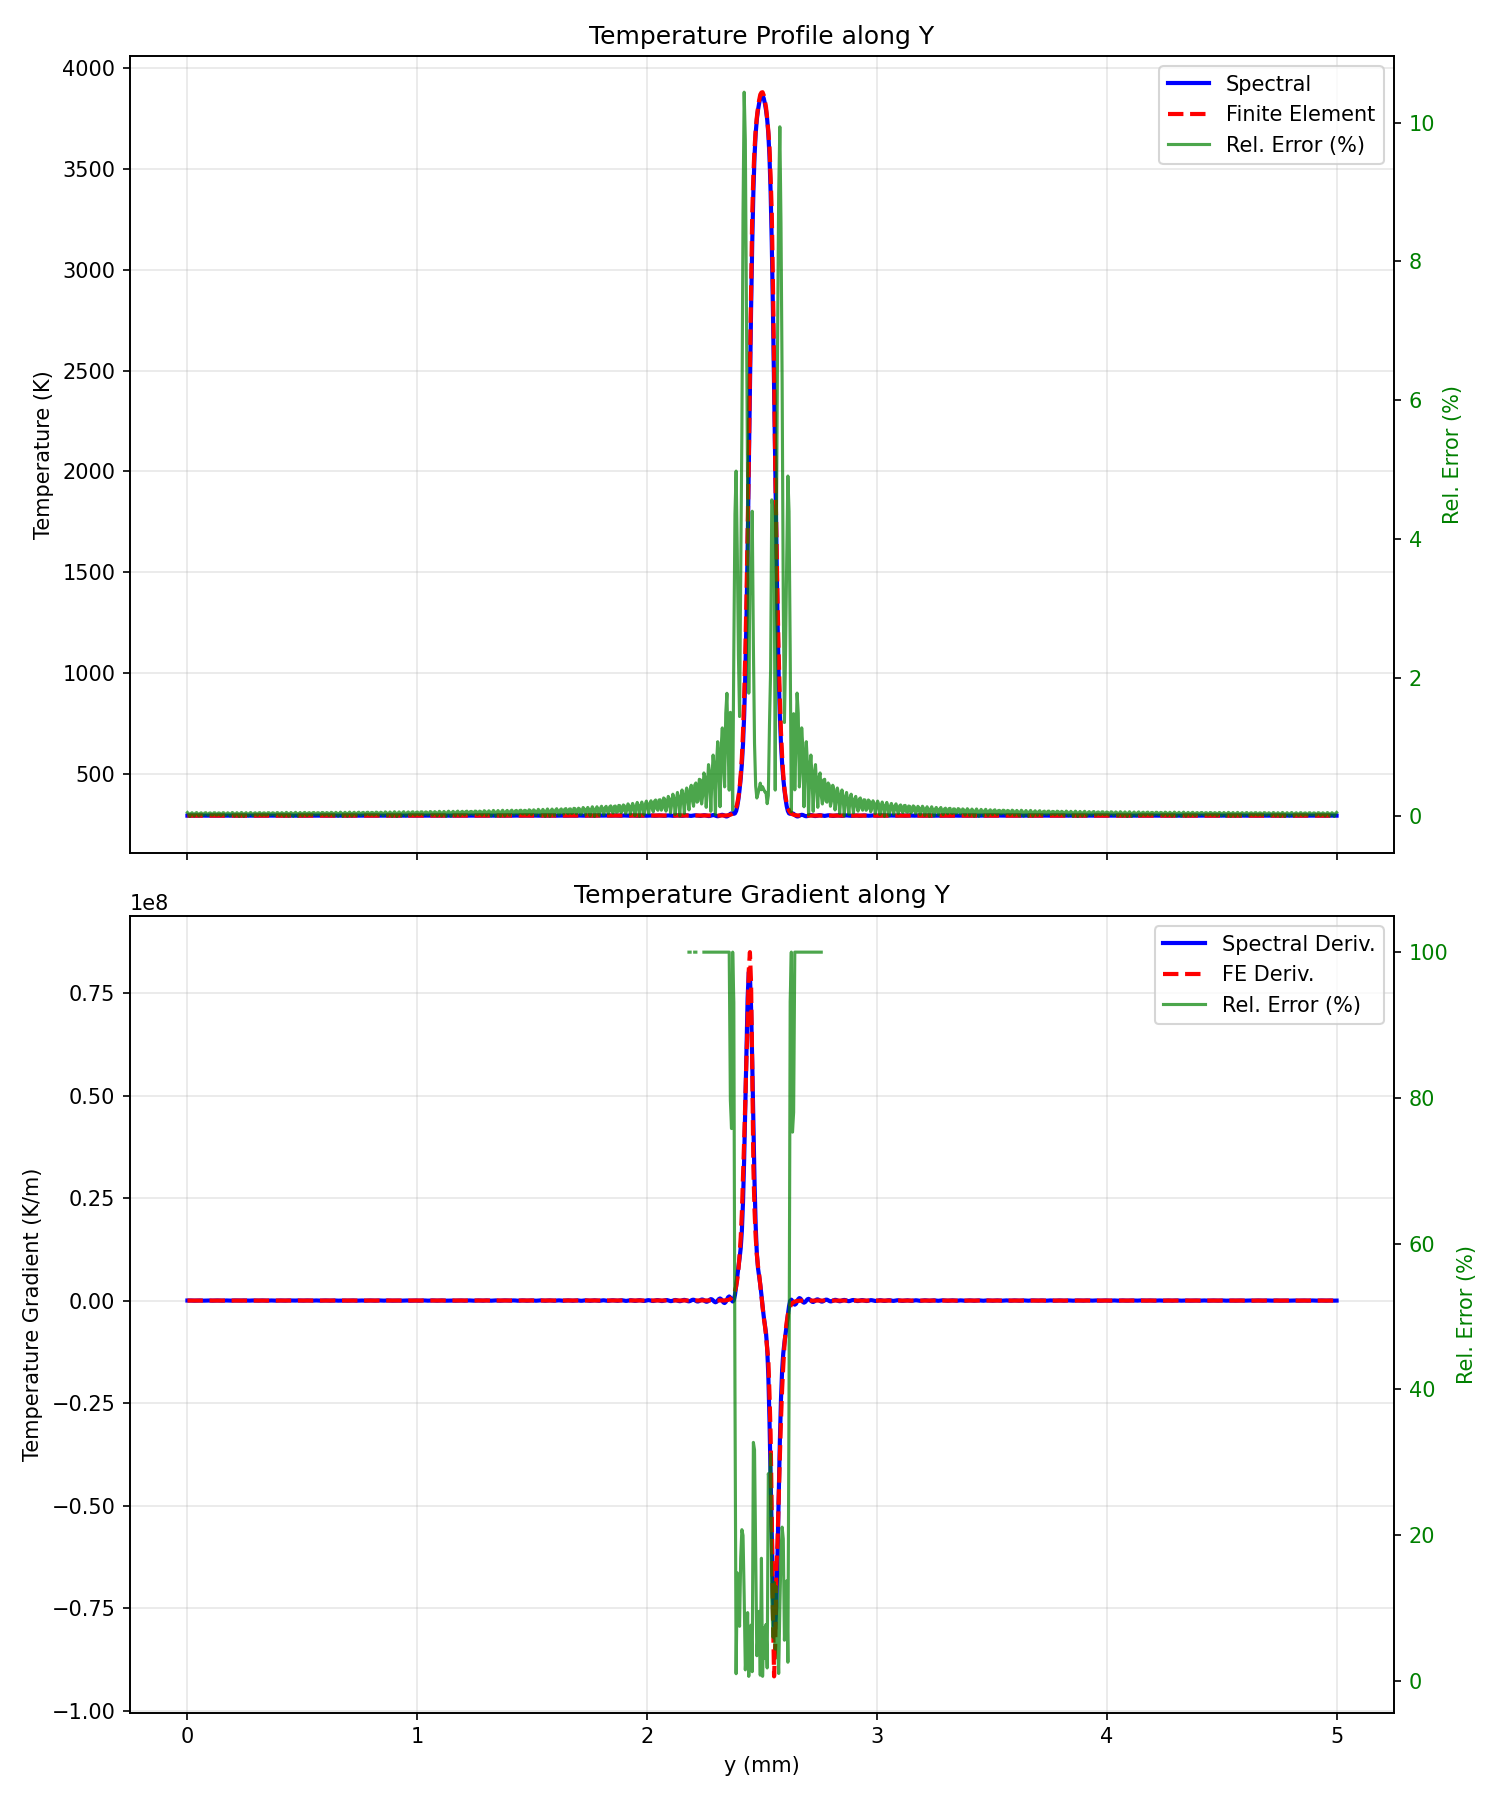
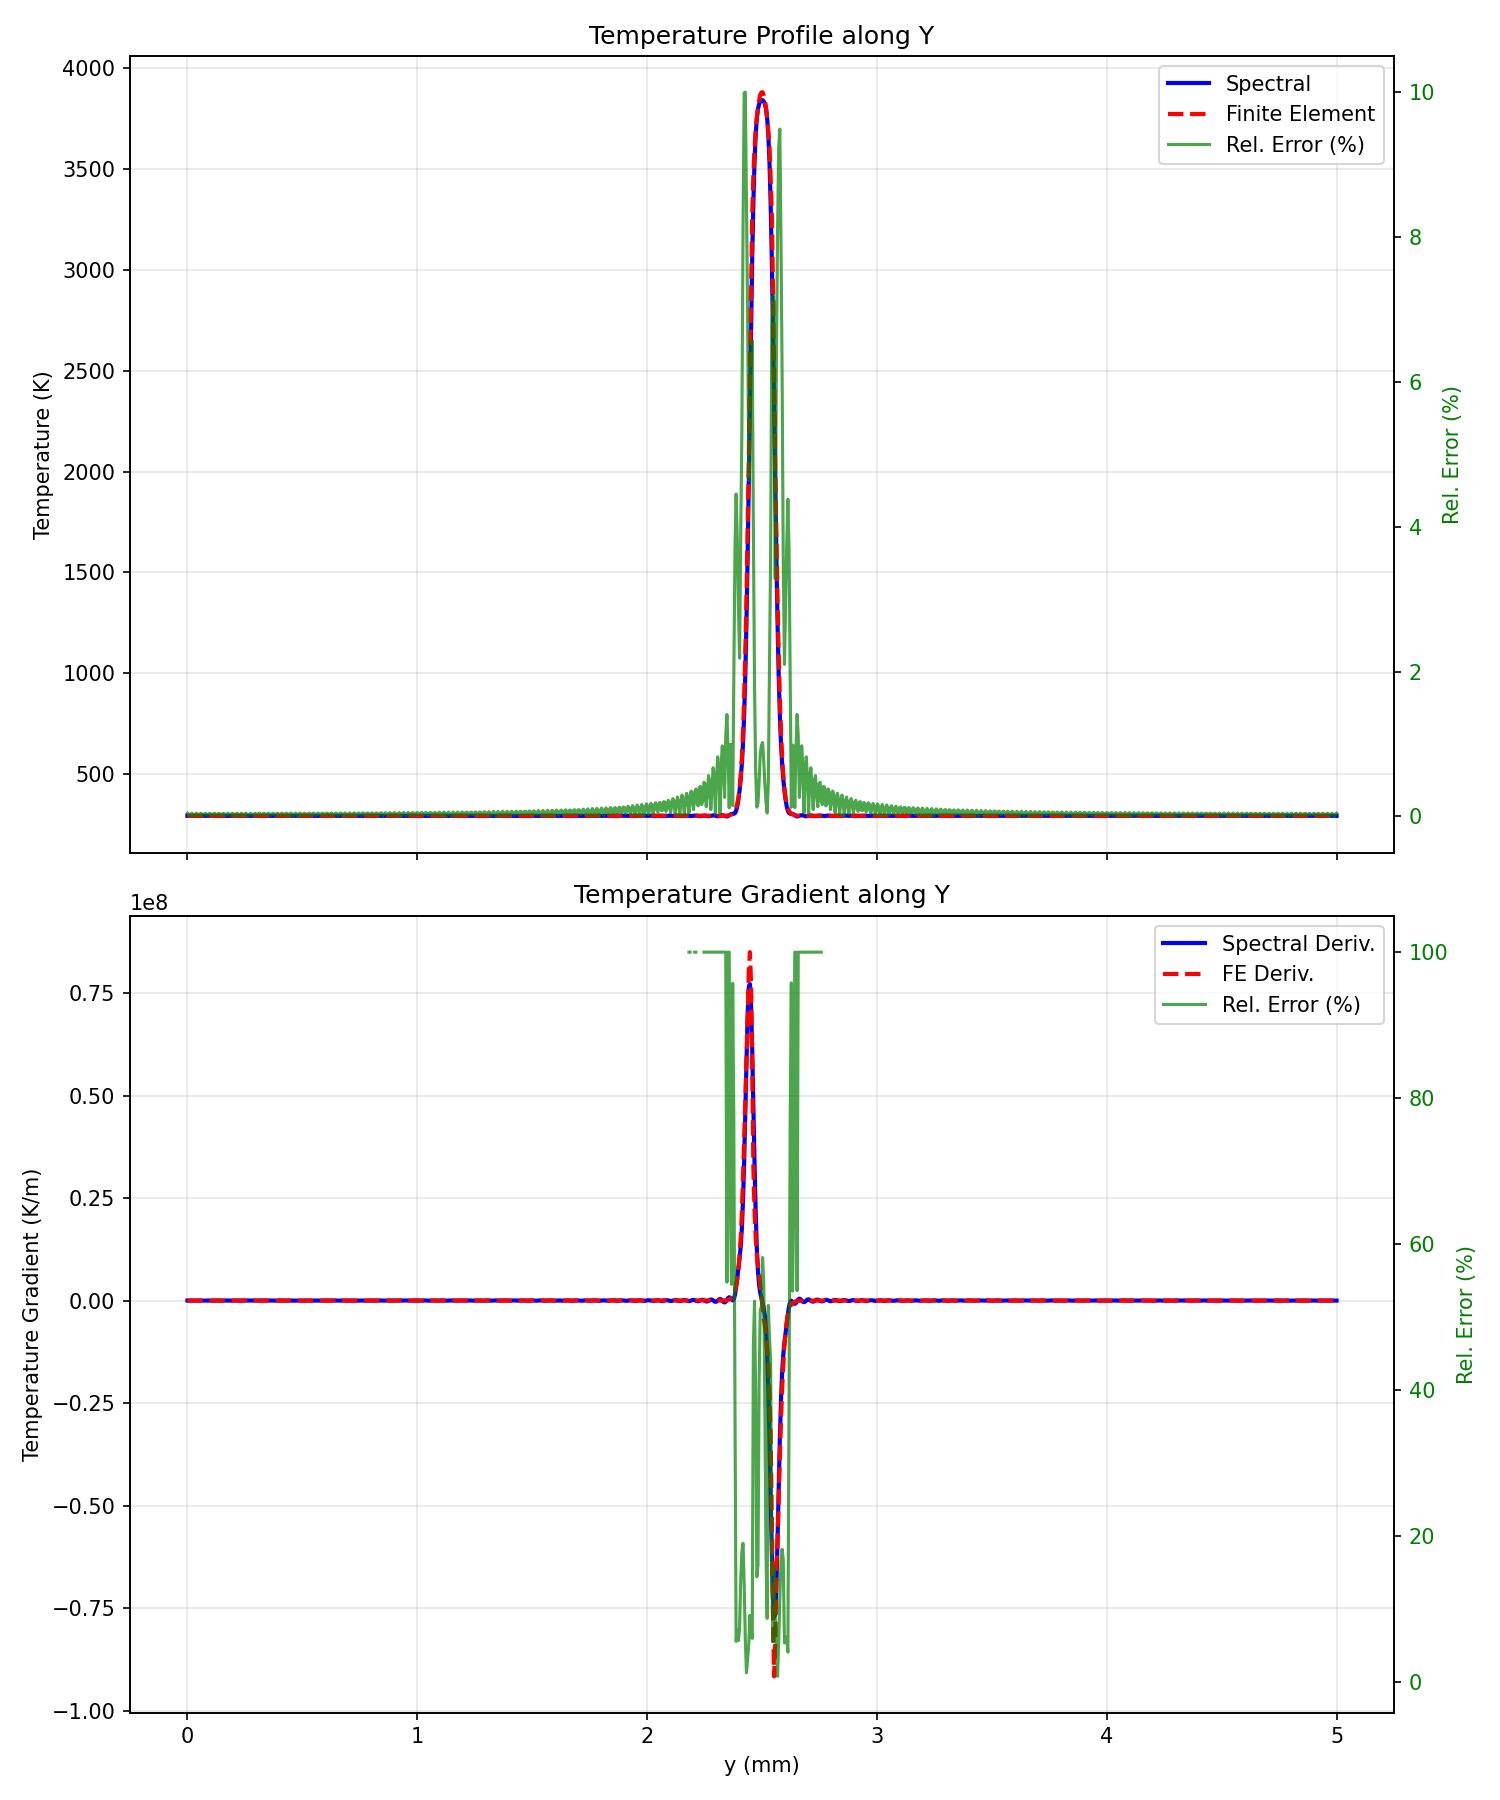
test gpu

Changed region(s): [[0.46, 0.5289, 0.552, 0.9333], [0.4293, 0.0933, 0.6133, 0.4667]]

diff --git a/implementations/physics/spectral_gpu_kernels.py b/implementations/physics/spectral_gpu_kernels.py
@@ -12,16 +12,58 @@ import utils.spectral_helpers as spec_hp  # Assuming this contains only scalar l
 # ======================================
 
 @cuda.jit
-def update_modes_etd1_kernel(aK, KK_by_Cp, B_scaled, a_temp_out):
+def update_modes_etd1_kernel(aK, B_scaled, a_temp_out, K, kx2, ky2, kz2, alpha, dt, rho_Cp):
     """
     Update spectral coefficients for ETD1 scheme.
+    Computes KK on the fly to save memory.
     Grid: 3D (nz, ny, nx)
     """
     z, y, x = cuda.grid(3)
     nz, ny, nx = aK.shape
 
     if z < nz and y < ny and x < nx:
-        a_temp_out[z, y, x] = aK[z, y, x] + KK_by_Cp[z, y, x] * B_scaled[y, x]
+        # Compute KK inline
+        # KK = (K - 1) / (-alpha * k^2 * rho * Cp)
+        # alpha * k^2
+        k2 = kx2[x] + ky2[y] + kz2[z]
+        denom = alpha * k2
+        
+        if denom == 0.0:
+            KK_val = dt / rho_Cp
+        else:
+            KK_val = (K[z, y, x] - 1.0) / (-denom * rho_Cp)
+            
+        a_temp_out[z, y, x] = aK[z, y, x] + KK_val * B_scaled[y, x]
+
+@cuda.jit
+def add_projected_source_kernel(a_temp, temp2, Bx, K, kx2, ky2, kz2, alpha, dt, rho_Cp):
+    """
+    Project partial source term (temp2) onto x-modes and add to a_temp weighted by KK.
+    temp2: (nx_box, nz, ny)
+    Bx: (nx, nx_box)
+    a_temp: (nz, ny, nx)
+    """
+    z, y, x = cuda.grid(3)
+    nz, ny, nx = a_temp.shape
+    nx_box = temp2.shape[0]
+    
+    if z < nz and y < ny and x < nx:
+        # 1. Finish Projection (Dot product over box x-modes)
+        Q_val = 0.0
+        for i in range(nx_box):
+            Q_val += temp2[i, z, y] * Bx[x, i] # Bx is (nx, nx_box)
+            
+        # 2. Compute KK inline
+        k2 = kx2[x] + ky2[y] + kz2[z]
+        denom = alpha * k2
+        
+        if denom == 0.0:
+            KK_val = dt / rho_Cp
+        else:
+            KK_val = (K[z, y, x] - 1.0) / (-denom * rho_Cp)
+            
+        # 3. Add to state
+        a_temp[z, y, x] += KK_val * Q_val
 
 @cuda.jit
 def add_source_term_modes_kernel(a_temp, KK, Q_modes):
@@ -92,12 +134,22 @@ class SpectralSolverState:
     """
     # Spectral Propagators
     K: cp.ndarray = None
-    KK: cp.ndarray = None
-    KK_by_Cp: cp.ndarray = None
+    # KK: cp.ndarray = None      # Removed to save memory
+    # KK_by_Cp: cp.ndarray = None # Removed to save memory
+     
+    # K-vector squared components for on-the-fly KK computation
+    kx2: cp.ndarray = None
+    ky2: cp.ndarray = None
+    kz2: cp.ndarray = None
+    
+    # Physics scalars for KK computation
+    alpha: float = 0.0
+    dt: float = 0.0
+    rho_Cp: float = 0.0
     
     # State Arrays
     a: cp.ndarray = None       # Current temperature modes (nz, ny, nx)
-    aK: cp.ndarray = None      # Decayed temperature modes (nz, ny, nx)
+    # aK: cp.ndarray = None      # Removed, we reuse 'a' as accumulator
     a_temp: cp.ndarray = None  # Temporary working array (nz, ny, nx)
     
     # Buffers
@@ -130,6 +182,10 @@ class SpectralSolverState:
     nx_box: int = 0
     ny_box: int = 0
     nz_box: int = 0
+    
+    # helper for slicing
+    box_y_ind_start: int = 0
+    box_y_ind_end: int = 0
     
     fine_mesh_initialized: bool = False
     
@@ -261,47 +317,45 @@ class SpectralSolverState:
         self.Bx_fine = cp.zeros((nx, self.nx_box), dtype=cp.float32)
         self.By_fine = cp.zeros((ny, self.ny_box), dtype=cp.float32)
         self.Bz_fine = self.Bz_fine_full[:, :self.nz_box] # Slicing works on GPU
-        self.box_x = cp.zeros(self.nx_box, dtype=cp.float32)
-        self.box_y = cp.zeros(self.ny_box, dtype=cp.float32)
-        self.box_z = z_fine_global # Use actual cell centers
-        
-        self.fine_mesh_initialized = False
-        self.ix_laser_box = max(0, min(self.nx_box - 1, int(round(0.5 * (self.nx_box - 1)))))
-        
-        self.dV_fine = self.dx_fine * self.dy_fine * self.dz_fine
-
-    def prepare_K_buffers(self, phys, geom, num):
-        """Precompute spectral propagators and allocate buffers on GPU."""
+        self.box_x = cK and setup scalar params for on-the-fly KK."""
         import logging
         logger = logging.getLogger(__name__)
-        logger.info("Precomputing K, KK on GPU... ")
+        logger.info("Precomputing K on GPU... ")
         
-        self.K, self.KK = precompute_K_KK(phys, num, geom)
-        # Project KK onto top-surface weighted Cp for source projection
-        nx, ny, nz = num.nx, num.ny, num.nz
-        sign = cp.power(-1.0, cp.arange(nz, dtype=cp.float32)).astype(cp.float32)
-        Cp_top = (self.Cp.astype(cp.float32) * sign)
-        self.KK_by_Cp = (self.KK * Cp_top[:, None, None]).astype(cp.float32)
+        self.K, self.kx2, self.ky2, self.kz2 = precompute_K_and_k2(phys, num, geom)
+        
+        # Store scalars
+        self.alpha = phys.k / (phys.rho * phys.Cp)
+        self.dt = num.dt
+        self.rho_Cp = phys.rho * phys.Cp
         
         # Allocate working arrays on GPU
-        self.q_diff = cp.empty((ny, nx), dtype=cp.float32)
-        self.B_buffer = cp.empty((ny, nx), dtype=cp.float32)
-        self.a_temp = cp.empty((nz, ny, nx), dtype=cp.float32)
-        self.aK = cp.empty((nz, ny, nx), dtype=cp.float32)
-        self.q_evap_old = cp.zeros((ny, nx), dtype=cp.float32)
-        self.q_evap_buffer = cp.zeros((ny, nx), dtype=cp.float32)
+        # Reduced memory: aK removed, KK removed
+        self.q_diff = cp.empty((num.ny, num.nx), dtype=cp.float32)
+        self.B_buffer = cp.empty((num.ny, num.nx), dtype=cp.float32)
+        self.a_temp = cp.empty((num.nz, num.ny, num.nx), dtype=cp.float32)
+        
+        # Re-use 'a' logic will happen in solver class
+        # self.aK = cp.empty((nz, ny, nx), dtype=cp.float32) # Removed
+        
+        self.q_evap_old = cp.zeros((num.ny, num.nx), dtype=cp.float32)
+        self.q_evap_buffer = cp.zeros((num.ny, num.nx), dtype=cp.float32)
         # ZYX layout
         self.Q_latent_buffer = cp.zeros((self.nz_box, self.ny_box, self.nx_box), dtype=cp.float32)
 
 
-def precompute_K_KK(phys, num, geom):
+def precompute_K_and_k2(phys, num, geom):
     """
-    Compute spectral Propagators (K, KK) on GPU.
+    Compute K and return k^2 components.
     """
     # Use CuPy
     kx = (np.pi * cp.arange(num.nx) / geom.Lx)
     ky = (np.pi * cp.arange(num.ny) / geom.Ly)
     kz = (np.pi * cp.arange(num.nz) / geom.Lz)
+
+    kx2 = kx**2
+    ky2 = ky**2
+    kz2 = kz**2
 
     # meshgrid(..., indexing='ij')
     KX, KY, KZ = cp.meshgrid(kx, ky, kz, indexing='ij')
@@ -310,6 +364,7 @@ def precompute_K_KK(phys, num, geom):
     alpha = phys.k / (phys.rho * phys.Cp)
     K = cp.exp(-alpha * k2 * num.dt).astype(cp.float32)
 
+    return K, kx2.astype(cp.float32), ky2.astype(cp.float32), kz2.astype(cp.float32)
     denom = alpha * k2
     mask_zero = (denom == 0)
     # Avoid div by zero
@@ -325,8 +380,8 @@ def precompute_K_KK(phys, num, geom):
 # Wrapper Functions
 # ======================================
 
-def update_modes_etd1(aK, KK_by_Cp, B_scaled, a_temp_out):
-    """Wrapper for ETD1 kernel."""
+def update_modes_etd1(aK, SsState, B_scaled, a_temp_out):
+    """Wrapper for ETD1 kernel with on-the-fly KK."""
     nz, ny, nx = aK.shape
     # Block dims
     threadsperblock = (8, 8, 8)
@@ -335,20 +390,58 @@ def update_modes_etd1(aK, KK_by_Cp, B_scaled, a_temp_out):
         (ny + threadsperblock[1] - 1) // threadsperblock[1],
         (nx + threadsperblock[2] - 1) // threadsperblock[2]
     )
-    update_modes_etd1_kernel[blockspergrid, threadsperblock](aK, KK_by_Cp, B_scaled, a_temp_out)
+    update_modes_etd1_kernel[blockspergrid, threadsperblock](
+        aK, B_scaled, a_temp_out,
+        SsState.K, SsState.kx2, SsState.ky2, SsState.kz2,
+        SsState.alpha, SsState.dt, SsState.rho_Cp
+    )
 
 
-def add_source_term_modes(a_temp, KK, Q_modes):
-    """Wrapper for Source Term Accumulation."""
-    nz, ny, nx = a_temp.shape
+def add_projected_source(a_target, field_box, SsState):
+    """
+    Project fine box field to global spectral modes and add to a_target weighted by KK.
+    Does NOT allocate full 3D intermediate array.
+    """
+    if not SsState.fine_mesh_initialized:
+        raise RuntimeError("Fine mesh not initialized.")
+    
+    # partial contraction steps
+    # 1. Contract Z: (nz_box, ny_box, nx_box) . (nz, nz_box) -> (ny_box, nx_box, nz)
+    # Bz_fine should be sliced (nz, nz_box)
+    Bz_fine = SsState.Bz_fine_full[:, :SsState.nz_box]
+    temp1 = cp.tensordot(field_box, Bz_fine, axes=(0, 1))
+    
+    # 2. Contract Y: (ny_box, nx_box, nz) . (ny, ny_box) -> (nx_box, nz, ny)
+    By_fine = SsState.By_fine_full[:, SsState.box_y_ind_start:SsState.box_y_ind_end] 
+    # Oops, need indices from solver state update?
+    # Actually SsState.By_fine IS the sliced/copied array in current code. 
+    # Let's check update_fine_mesh below. 
+    # It updates SsState.By_fine. So use it.
+    
+    temp2 = cp.tensordot(temp1, SsState.By_fine, axes=(0, 1))
+    
+    # temp2 is (nx_box, nz, ny).
+    
+    # 3. Final transform and addition via kernel
+    nz, ny, nx = a_target.shape
     threadsperblock = (8, 8, 8)
     blockspergrid = (
         (nz + threadsperblock[0] - 1) // threadsperblock[0],
         (ny + threadsperblock[1] - 1) // threadsperblock[1],
         (nx + threadsperblock[2] - 1) // threadsperblock[2]
     )
-    add_source_term_modes_kernel[blockspergrid, threadsperblock](a_temp, KK, Q_modes)
+    
+    # Scale by volume element dV_fine before adding?
+    # In original: modes *= SsState.dV_fine
+    # We can scale temp2 or do it in kernel. 
+    # Scaling temp2 is one operation on smaller array.
+    temp2 *= SsState.dV_fine
 
+    add_projected_source_kernel[blockspergrid, threadsperblock](
+        a_target, temp2, SsState.Bx_fine,
+        SsState.K, SsState.kx2, SsState.ky2, SsState.kz2,
+        SsState.alpha, SsState.dt, SsState.rho_Cp
+    )
 
 def compute_evaporation_flux(T_surface, q_out, P0, R_gas, T_boil, DeltaH_LV, R_v, T_liquidus):
     """Wrapper for Evaporation kernel."""
@@ -368,23 +461,6 @@ def compute_gaussian_laser_flux(X, Y, laser_x, laser_y, laser_r, laser_coef):
     # CuPy handles element-wise operations automatically
     r_sq = (X - laser_x) ** 2 + (Y - laser_y) ** 2
     return (laser_coef * cp.exp(-2.0 * r_sq / laser_r ** 2)).astype(cp.float32)
-
-
-def project_box_to_modes(field_box, SsState):
-    """Project fine box field to global spectral modes (GPU)."""
-    if not SsState.fine_mesh_initialized:
-        raise RuntimeError("Fine mesh not initialized.")
-    
-    # cp.tensordot is highly optimized
-    # 1. Contract Z_box: (nz_box, ny_box, nx_box) . (nz, nz_box) -> (ny_box, nx_box, nz)
-    temp1 = cp.tensordot(field_box, SsState.Bz_fine, axes=(0, 1))
-    # 2. Contract Y_box: (ny_box, nx_box, nz) . (ny, ny_box) -> (nx_box, nz, ny)
-    temp2 = cp.tensordot(temp1, SsState.By_fine, axes=(0, 1))
-    # 3. Contract X_box: (nx_box, nz, ny) . (nx, nx_box) -> (nz, ny, nx)
-    modes = cp.tensordot(temp2, SsState.Bx_fine, axes=(0, 1))
-    
-    modes *= SsState.dV_fine
-    return modes.astype(cp.float32)
 
 
 def reconstruct_temperature_box(a, SsState):
@@ -551,6 +627,10 @@ def update_fine_mesh(SsState, x_laser, y_laser):
         y_laser, SsState.dy_fine, SsState.ny_fine_total, SsState.ny_box
     )
     
+    # Store indices for optimized slicing in add_projected_source if needed
+    SsState.box_y_ind_start = iy_start 
+    SsState.box_y_ind_end = iy_end
+
     SsState.box_y[:] = SsState.y_fine[iy_start:iy_end]
     SsState.By_fine[:, :] = SsState.By_fine_full[:, iy_start:iy_end]
 

diff --git a/implementations/solvers/spectral_gpu.py b/implementations/solvers/spectral_gpu.py
@@ -38,7 +38,7 @@ class SpectralSolverGPU:
         self.state.a[0,0,0] = cp.asarray(T0 * (geom.Lx * geom.Ly * geom.Lz) ** 0.5, dtype=cp.float32)
 
         # Ensure all state arrays are on GPU (CuPy) TO DO - Ensure in kernels directly
-        for attr in ["aK", "a_temp", "K", "KK", "KK_by_Cp", "q_evap_old", "q_evap_buffer", "q_diff", "B_buffer", "Q_latent_buffer"]:
+        for attr in ["a_temp", "K", "q_evap_old", "q_evap_buffer", "q_diff", "B_buffer", "Q_latent_buffer"]:
             arr = getattr(self.state, attr, None)
             if arr is not None and not isinstance(arr, cp.ndarray):
                 setattr(self.state, attr, cp.asarray(arr, dtype=cp.float32))
@@ -87,19 +87,26 @@ class SpectralSolverGPU:
         q_dct = kernels.DCT_II(q_las - q_evap)
 
         # 2. Linear step (ETD1)
-        cp.multiply(cp.asarray(a), cp.asarray(SsState.K), out=SsState.aK, casting='same_kind')
+        # Apply decay to 'a' in-place (a becomes the base decayed state for this step)
+        cp.multiply(a, SsState.K, out=a)
+        
+        # Prepare Source term S_n
         S_n = SsState.dct_scale * q_dct
         cp.multiply(SsState.dct_scale, q_dct, out=SsState.B_buffer, casting='same_kind')
-        kernels.update_modes_etd1(SsState.aK, SsState.KK_by_Cp, SsState.B_buffer, SsState.a_temp)
+        
+        # Compute first estimate a_temp (includes linear decay + initial source guess)
+        kernels.update_modes_etd1(a, SsState, SsState.B_buffer, SsState.a_temp)
         S_current = S_n.copy()
 
         # 3. Latent Heat Correction
-        kernels.update_fine_mesh(SsState, x, y) # can be moved easily to kernels
+        kernels.update_fine_mesh(SsState, x, y)
         SsState.Q_latent_buffer.fill(0.0)
         kernels.compute_latent_heat_source(SsState.Q_latent_buffer, mat, x, y, num, SsState)
-        Q_modes = kernels.project_box_to_modes(SsState.Q_latent_buffer, SsState)
-        kernels.add_source_term_modes(SsState.aK, SsState.KK, Q_modes)
-        kernels.add_source_term_modes(SsState.a_temp, SsState.KK, Q_modes)
+        
+        # Project latent heat directly into 'a' (base state) and 'a_temp' (current estimate)
+        # This modifies 'a' to include the integrated latent heat, so it serves effectively as 'aK' from original code
+        kernels.add_projected_source(a, SsState.Q_latent_buffer, SsState)
+        kernels.add_projected_source(SsState.a_temp, SsState.Q_latent_buffer, SsState)
 
         # 4. Nonlinear iteration for evaporation
         T_temp = kernels.reconstruct_surface_temperature(SsState.a_temp, SsState)
@@ -113,7 +120,10 @@ class SpectralSolverGPU:
             S_target = SsState.dct_scale * kernels.DCT_II(SsState.q_diff)
             S_current = 0.1 * S_target + 0.9 * S_current
             cp.multiply(1.0, S_current, out=SsState.B_buffer, casting='same_kind')
-            kernels.update_modes_etd1(SsState.aK, SsState.KK_by_Cp, SsState.B_buffer, SsState.a_temp)
+            
+            # Recompute a_temp from base 'a' (which includes latent heat now) and new source S_current
+            kernels.update_modes_etd1(a, SsState, SsState.B_buffer, SsState.a_temp)
+            
             T_old = T_temp
             T_temp = kernels.reconstruct_surface_temperature(SsState.a_temp, SsState)
             if cp.max(cp.abs(T_temp - T_old)) < 2e+1:
@@ -129,6 +139,8 @@ class SpectralSolverGPU:
             'n_evap_iter': k+1
         }
 
-        # Update state for next step
-        SsState.a = SsState.a_temp.copy()
+        # Update state for next step by ping-pong swapping
+        # 'a_temp' holds validity, 'a' holds garbage. Swap so 'a' holds validity.
+        SsState.a, SsState.a_temp = SsState.a_temp, SsState.a
+        
         return SsState, metrics
